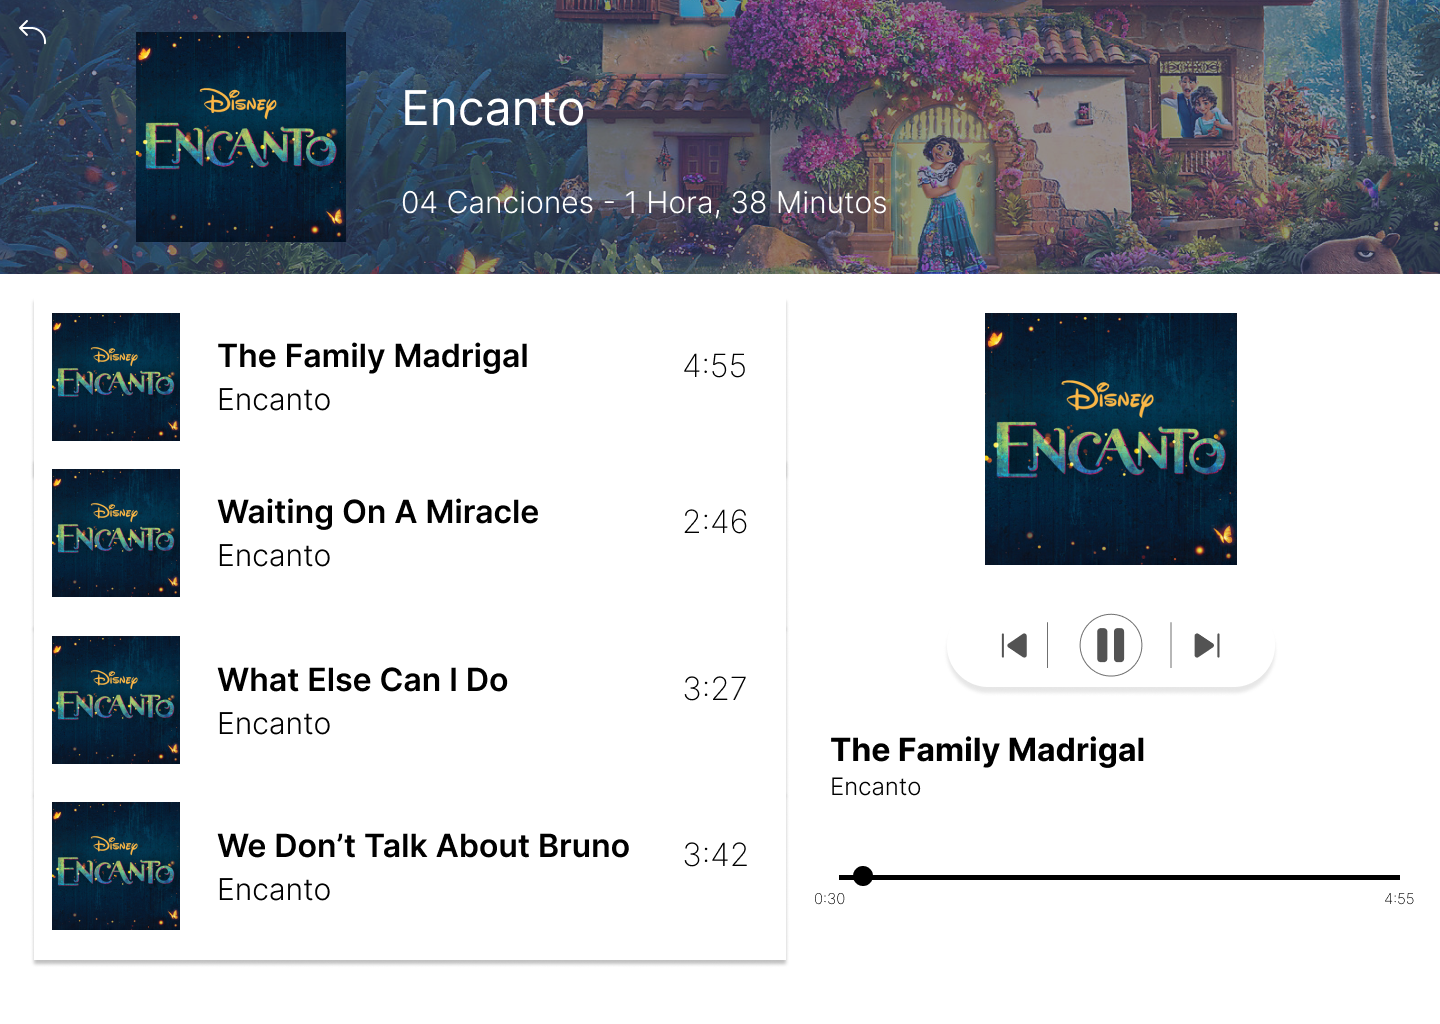
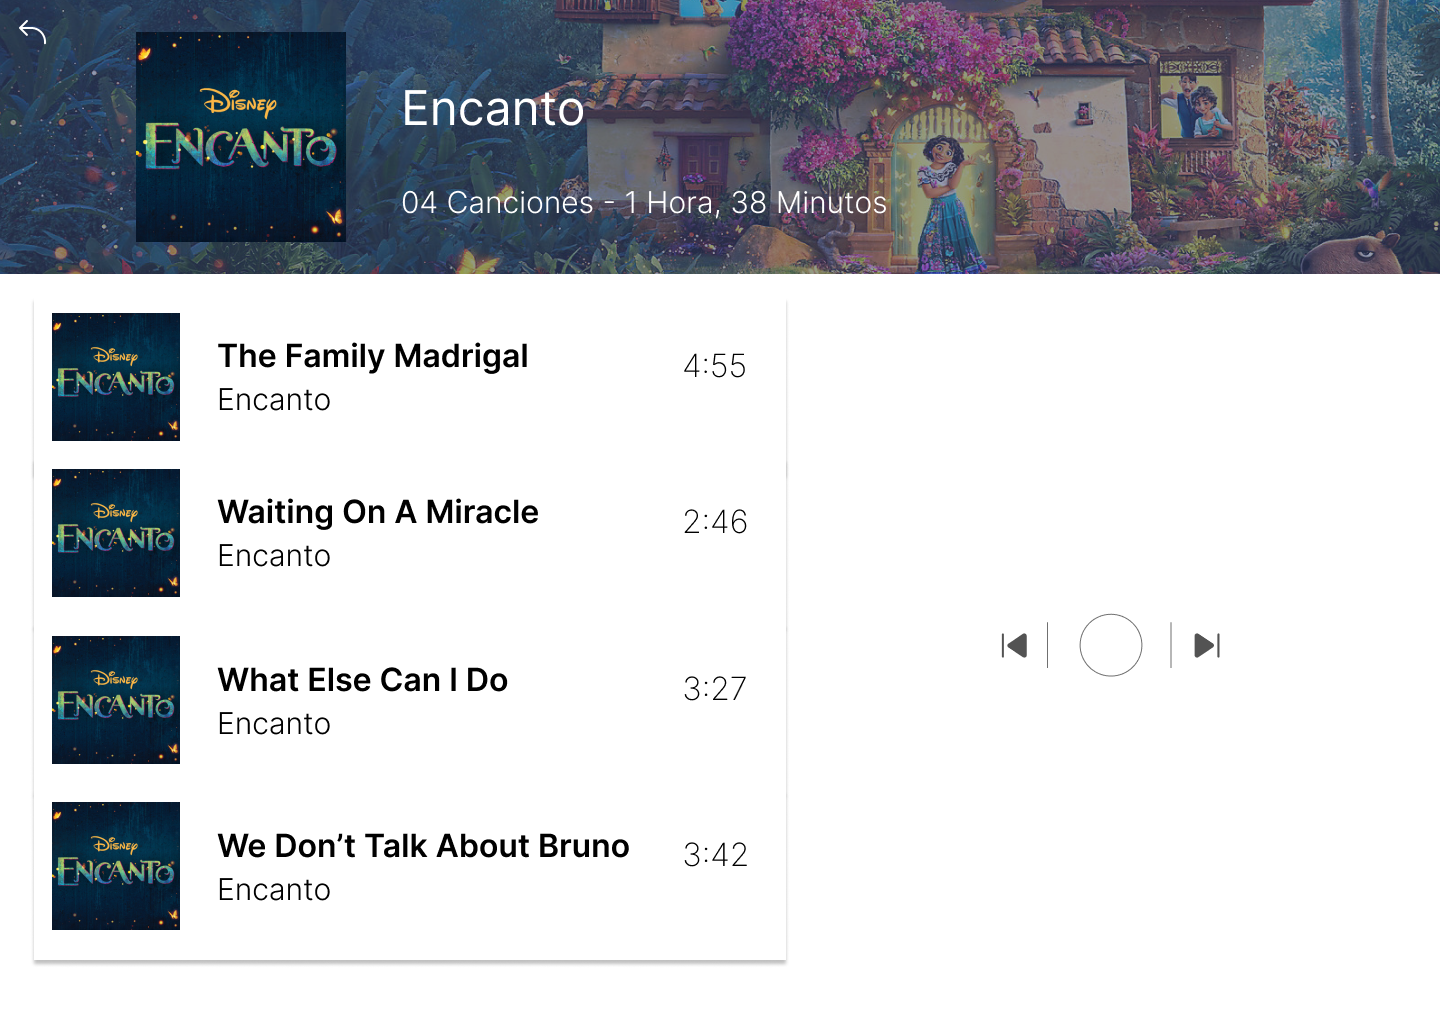
Apoyo Monitorias

diff --git a/App.js b/App.js
@@ -1,27 +1,71 @@
 class App {
-    constructor () {
-        
-    //   this._songs = [];
-    //   this._currentSong = null;
-    //   this._dragging = false;
-    //   songsFiles.forEach(data => {
-    //     this._songs.push(new Song(data));
-     // });
-
+    constructor (songFiles) {
+        this.clickCounter = 0;
+        this.screen = 0;
+        this.songs1 = [];
+        this.songs2 = [];
+        this.currentSong = 0;
+        songFiles.forEach((song, i) => {
+            const newSong = new Archivo(song.name, song.songFile, song.imgFile);
+            if(i >= 4) this.songs1.push(newSong);
+            else this.songs2.push(newSong);
+        })
     }
 
     draw() {
-       
-
+        switch (this.screen) {
+            case 0:
+              image (screenInicio,0,0,1440,1024)
+              break;
+            case 1:
+              image (screenPlaylist,0,0,1440,1024)
+              break;
+            case 2:
+              image (screenLista,0,0,1440,1024)
+              break;
+            case 3:
+              image (screenLista2,0,0,1440,1024)
+              break;   
+        }
     }
 
     press() {
-       
-          
-    //     if(this._currentSong !== null && mouseX < width-20 && mouseX > 20 && mouseY < 243 && mouseY > 232) {
-    //       this._dragging = true;
-    //       const currSong = this._songs[this._currentSong];
-    //       currSong.song.jump(map(mouseX, 20, width - 20, 0, currSong.song.duration()));
-    //     }
-       }
+        if (this.clickCounter <= frameCount && this.screen === 0) {
+            if (mouseX > 112 && mouseX < 486 && mouseY > 654 && mouseY < 744) {
+                this.screen = 1;
+                this.clickCounter = frameCount + 10;
+            }
+        }
+        if (this.clickCounter <= frameCount && this.screen === 1) {
+            if (mouseX > 157 && mouseX < 490 && mouseY > 288 && mouseY < 725) {
+                this.screen = 2;
+                this.clickCounter = frameCount + 10;
+            } else if (mouseX > 552 && mouseX < 884 && mouseY > 288 && mouseY < 725) {
+                this.screen = 3;
+                this.clickCounter = frameCount + 10;
+            }
+        } else {
+            if (dist(mouseX, mouseY, 30, 26) < 20) {
+                if(this.screen === 2) this.songs1[this.currentSong].stop();
+                else this.songs2[this.currentSong].stop();
+                this.currentSong = 0;
+                this.screen = 1;
+            }
+            if(this.clickCounter <= frameCount) {
+                if(this.screen === 2) {
+                    this.changeSong(this.songs1);
+                } else {
+                    this.changeSong(this.songs2);
+                }
+            }
+        }  
+    }
+
+    changeSong(list) {
+        list[this.currentSong].stop();
+        list.forEach((song, i) => {
+            song.press(i);
+            this.currentSong = i;
+        });
+    }
 }

diff --git a/sketch.js b/sketch.js
@@ -3,6 +3,11 @@ const HEIGHT = 1025;
 
 const songsData= [
   {
+    name: "When Will My Life Begin",
+    file: "/Musica/When Will My Life Begin.mp3",
+    img: "/Imagenes/Tangle.jpg"
+  },
+  {
     name: "Gotta Go My Own Way",
     file: "/Musica/Gotta Go My Own Way.mp3",
     img: "/Imagenes/HSM.jpg"
@@ -28,20 +33,15 @@ const songsData= [
     img: "/Imagenes/Encanto.jpg"
   },
   {
-    name: "We Dont Talk About Bruno",
-    file: "/Musica/We Dont Talk About Bruno.mp3",
-    img: "/Imagenes/Encanto.jpg"
-  },
-  {
     name: "What Else Can I Do",
     file: "/Musica/What Else Can I Do.mp3",
     img: "/Imagenes/Encanto.jpg"
   },
   {
-    name: "When Will My Life Begin",
-    file: "/Musica/When Will My Life Begin.mp3",
-    img: "/Imagenes/Tangle.jpg"
-  }
+    name: "We Dont Talk About Bruno",
+    file: "/Musica/We Dont Talk About Bruno.mp3",
+    img: "/Imagenes/Encanto.jpg"
+  },
 ];
 let songFiles = [];
 let app;
@@ -50,6 +50,7 @@ let screenInicio;
 let screenPlaylist;
 let screenLista;
 let screenLista2;
+let clickCounter = 0;
 
 
 function preload() {
@@ -61,6 +62,7 @@ function preload() {
 
   songFiles = songsData.map(data => {
     return {
+      name: data.name,
       songFile: loadSound(data.file),
       imgFile: loadImage(data.img)
     }
@@ -70,53 +72,18 @@ function preload() {
 function setup() {
   screen = 0;
   createCanvas(WIDTH, HEIGHT);
-  app = new App();
+  app = new App(songFiles);
 
   //main = new Main(songsData, songFiles);
 }
 
 function draw() {
   background(220);
-
-
-  switch (screen) {
-    case 0:
-      image (screenInicio,0,0,1440,1024)
-      break;
-    case 1:
-      image (screenPlaylist,0,0,1440,1024)
-      break;
-    case 2:
-      image (screenLista,0,0,1440,1024)
-      break;
-    case 3:
-      image (screenLista2,0,0,1440,1024)
-      break;
-    
-  }
+  app.draw();
   text("x:" + mouseX + " y: " + mouseY, mouseX, mouseY);
 }
 
-function mouseClicked() {
-  
-      }
 
 function mousePressed() {
-  if (screen === 0) {
-    if (mouseX > 112 && mouseX < 486 && mouseY > 654 && mouseY < 744) {
-        screen = 1;
-    }
-  }
-  if (screen === 1) {
-      if (mouseX > 157 && mouseX < 490 && mouseY > 288 && mouseY < 618) {
-        screen = 2;
-      } else if (mouseX > 552 && mouseX < 884 && mouseY > 288 && mouseY < 725) {
-        screen = 3;
-      } }
-      
-      else {
-        if (dist(mouseX, mouseY, 30, 26) < 20) {
-          screen = 1;
-        }  
-  }
+  app.press();
 }

diff --git a/Archivos.js b/Archivos.js
@@ -4,4 +4,15 @@ class Archivo  {
         this._song = song;
         this._img = img;
     }
+
+    press(i) {
+        const offY = 150 * i;
+        if(mouseX > 50 && mouseX < 770 && mouseY > 310 + offY && mouseY < 440 + offY) {
+            this._song.play();
+        }
+    }
+
+    stop() {
+        this._song.stop();
+    }
 }

diff --git a/index.html b/index.html
@@ -15,6 +15,7 @@
   <body>
     <script src="sketch.js"></script>
     <script src="App.js"></script>
+    <script src="Archivos.js"></script>
 
   </body>
 </html>
